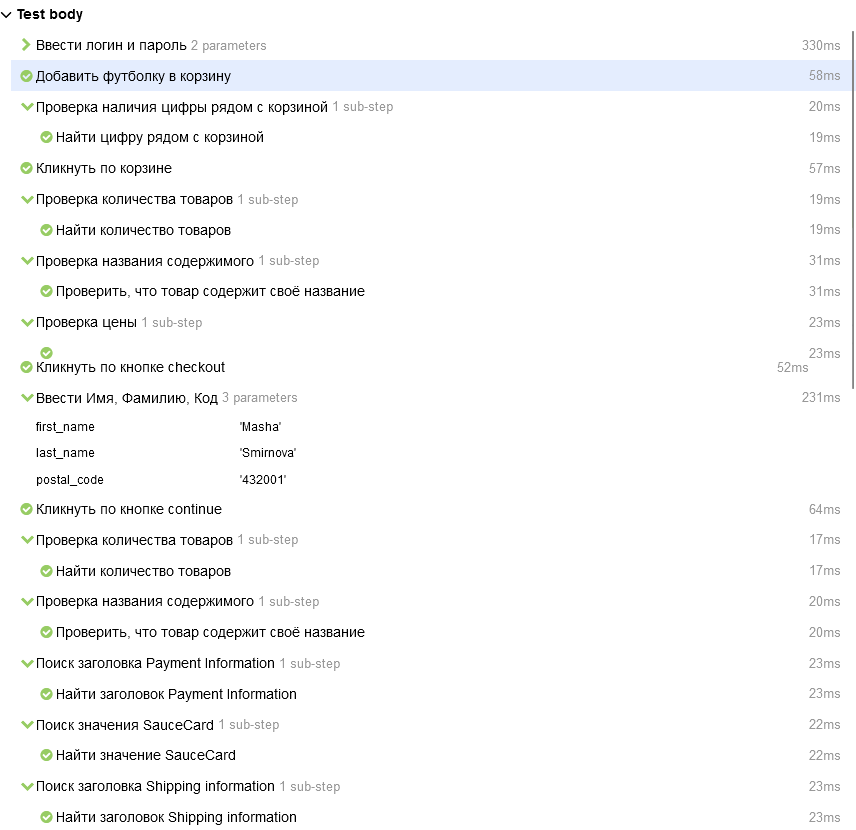
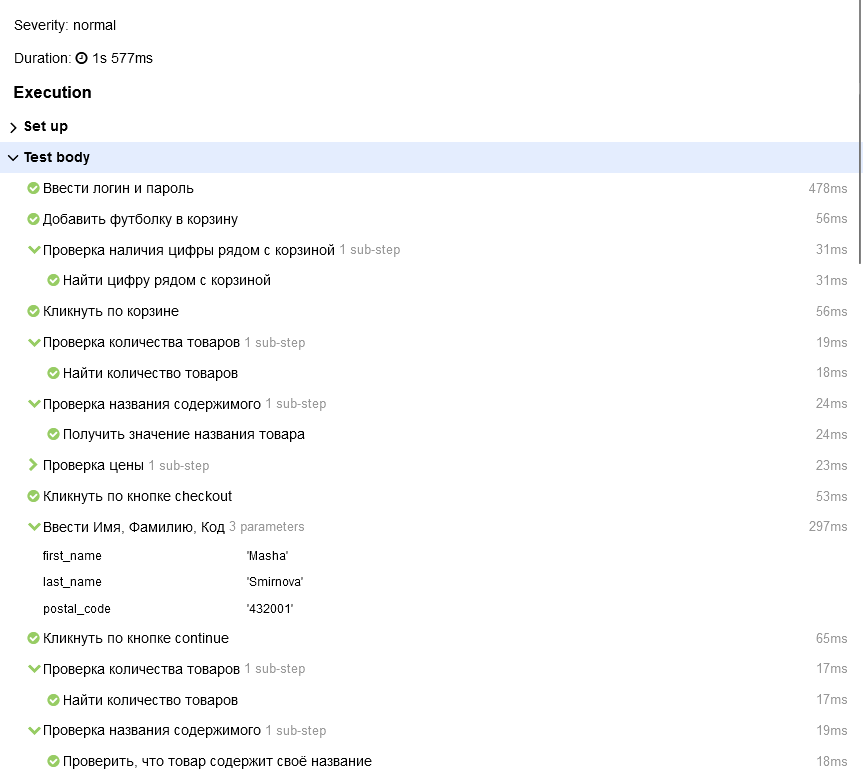
Добавил и изменил

Changed region(s): [[0.0, 0.0, 1.0, 1.0], [0.9416, 0.8, 1.0, 1.0], [0.9416, 0.5538, 1.0, 0.7692]]

diff --git a/pages/OverviewPage.py b/pages/OverviewPage.py
@@ -9,70 +9,70 @@ class OverviewPage(BasePage):
         super().__init__(driver, timeout=60)
 
         self.item_list = (By.XPATH, '//*[@class= "cart_item"]')
-        self.check_contains_product = (By.XPATH, '//div[@class="cart_item"]//div[@class="inventory_item_name"]')
-        self.check_payment_information = (By.XPATH, '//*[@class="summary_info"]/*[contains(text(), "Payment Information")]')
-        self.check_payment_value = (By.XPATH, '//*[@class="summary_info"]/*[contains(text(), "SauceCard #31337")]')
-        self.check_shipping_information = (By.XPATH, '//*[@class="summary_info"]/*[contains(text(), "Shipping Information")]')
-        self.check_shipping_value = (By.XPATH, '//*[@class="summary_info"]/*[contains(text(), "Free Pony Express Delivery!")]')
-        self.check_price_total_information = (By.XPATH, '//*[@class="summary_info"]/*[contains(text(), "Price Total")]')
-        self.check_price_subtotal_information = (By.CSS_SELECTOR, '[data-test="subtotal-label"]')
-        self.check_tax_label = (By.CSS_SELECTOR, '[data-test="tax-label"]')
-        self.check_total_label = (By.CSS_SELECTOR, '[data-test="total-label"]')
+        self.contains_product = (By.XPATH, '//div[@class="cart_item"]//div[@class="inventory_item_name"]')
+        self.payment_information = (By.XPATH, '//*[@class="summary_info"]/*[contains(text(), "Payment Information")]')
+        self.payment_value = (By.XPATH, '//*[@class="summary_info"]/*[contains(text(), "SauceCard #31337")]')
+        self.shipping_information = (By.XPATH, '//*[@class="summary_info"]/*[contains(text(), "Shipping Information")]')
+        self.shipping_value = (By.XPATH, '//*[@class="summary_info"]/*[contains(text(), "Free Pony Express Delivery!")]')
+        self.price_total_information = (By.XPATH, '//*[@class="summary_info"]/*[contains(text(), "Price Total")]')
+        self.price_subtotal_information = (By.CSS_SELECTOR, '[data-test="subtotal-label"]')
+        self.tax_label = (By.CSS_SELECTOR, '[data-test="tax-label"]')
+        self.total_label = (By.CSS_SELECTOR, '[data-test="total-label"]')
         self.finish_btn = (By.ID, 'finish')
 
 
     @allure.step(r"Найти заголовок Payment Information")
-    def find_payment_information(self):
-        return self.find_element(*self.check_payment_information).text
+    def find_payment_information(self) -> str:
+        return self.find_element(*self.payment_information).text
 
     @allure.step(r"Найти значение SauceCard")
-    def find_payment_value(self):
-        return self.find_element(*self.check_payment_value).text
+    def find_payment_value(self) -> str:
+        return self.find_element(*self.payment_value).text
 
     @allure.step(r"Найти заголовок Shipping information")
-    def find_shipping_information(self):
-        return self.find_element(*self.check_shipping_information).text
+    def find_shipping_information(self) -> str:
+        return self.find_element(*self.shipping_information).text
 
     @allure.step(r"Найти значение Free Pony Express Delivery")
-    def find_shipping_value(self):
-        return self.find_element(*self.check_shipping_value).text
+    def find_shipping_value(self) -> str:
+        return self.find_element(*self.shipping_value).text
 
     @allure.step(r"Найти итоговую цену")
-    def find_price_total_information(self):
-        return self.find_element(*self.check_price_total_information).text
+    def find_price_total_information(self) -> str:
+        return self.find_element(*self.price_total_information).text
 
     @allure.step(r"Найти цену предмета")
-    def find_price_subtotal_information(self):
-        return self.find_element(*self.check_price_subtotal_information).text[:11]
+    def find_price_subtotal_information(self) -> str:
+        return self.find_element(*self.price_subtotal_information).text[:11]
 
     @allure.step(r"Найти цену")
-    def find_price_subtotal_value(self):
-        return float(self.find_element(*self.check_price_subtotal_information).text[13:])
+    def find_price_subtotal_value(self) -> float:
+        return float(self.find_element(*self.price_subtotal_information).text[13:])
 
     @allure.step(r"Найти налог")
-    def find_tax_label(self):
-        return self.find_element(*self.check_tax_label).text[:4]
+    def find_tax_label(self) -> str:
+        return self.find_element(*self.tax_label).text[:4]
 
     @allure.step(r"Найти цену налога")
-    def find_price_tax_value(self):
-        return float(self.find_element(*self.check_tax_label).text[6:])
+    def find_price_tax_value(self) -> float:
+        return float(self.find_element(*self.tax_label).text[6:])
 
     @allure.step(r"Найти итог")
-    def find_total_label(self):
-        return self.find_element(*self.check_total_label).text[:6]
+    def find_total_label(self) -> str:
+        return self.find_element(*self.total_label).text[:6]
 
     @allure.step(r"Найти цену итога")
-    def find_price_total_value(self):
-        return float(self.find_element(*self.check_total_label).text[8:])
+    def find_price_total_value(self) -> float:
+        return float(self.find_element(*self.total_label).text[8:])
 
     @allure.step(r"Кликнуть по кнопке finish")
     def finish_btn_click(self):
         self.find_element(*self.finish_btn).click()
 
     @allure.step(r"Найти количество товаров")
-    def number_of_products(self):
+    def number_of_products(self) -> int:
         return len(self.find_elements(*self.item_list))
 
     @allure.step(r"Проверить, что товар содержит своё название")
-    def find_contains_products(self):
-        return self.find_element(*self.check_contains_product).text
+    def find_contains_products(self) -> str:
+        return self.find_element(*self.contains_product).text

diff --git a/test_run.py b/test_run.py
@@ -10,12 +10,12 @@ from pages.OverviewPage import OverviewPage
 
 def test_est_1_login(driver):
     auth_page = LoginPage(driver)
-    auth_page.auth('standard_user', 'secret_sauce')
+    auth_page.auth()
 
     inventory_page = InventoryPage(driver)
     inventory_page.add_tshirt_to_cart_btn_click()
     with allure.step(r"Проверка наличия цифры рядом с корзиной"):
-        assert inventory_page.find_cart_number(), "Цифры рядом с корзиной не найдена"
+        assert inventory_page.find_cart_number() == "1", "Цифры рядом с корзиной не найдена"
     inventory_page.cart_btn_click()
 
     cart_page = CartPage(driver)
@@ -23,10 +23,10 @@ def test_est_1_login(driver):
         assert cart_page.number_of_products() == 1
 
     with allure.step(r"Проверка названия содержимого "):
-        assert cart_page.find_contains_product()
+        assert cart_page.get_title_product() == "Sauce Labs Bolt T-Shirt", "Error, can't find product name"
 
     with allure.step(r"Проверка цены"):
-        assert cart_page.find_price_product()
+        assert cart_page.find_price_product() == 15.99, "Error, price is not correct"
 
     cart_page.checkout_btn_click()
 
@@ -42,37 +42,37 @@ def test_est_1_login(driver):
         assert overview_page.find_contains_products()
 
     with allure.step(r"Поиск заголовка Payment Information"):
-        assert overview_page.find_payment_information()
+        assert overview_page.find_payment_information() == "Payment Information:", "Заголовок не найден"
 
     with allure.step(r"Поиск значения SauceCard"):
-        assert overview_page.find_payment_value()
+        assert overview_page.find_payment_value() == "SauceCard #31337", "Значения SauceCard не найдено"
 
     with allure.step(r"Поиск заголовка Shipping information"):
-        assert overview_page.find_shipping_information()
+        assert overview_page.find_shipping_information() == "Shipping Information:", "Заголовок Shipping information не найден"
 
     with allure.step(r"Поиск значения Free Pony Express Delivery"):
-        assert overview_page.find_shipping_value()
+        assert overview_page.find_shipping_value() == "Free Pony Express Delivery!", "Значения Free Pony Express Delivery не найдено"
 
     with allure.step(r"Поиск итоговой цены(текста Итоговая цена)"):
-        assert overview_page.find_price_total_information()
+        assert overview_page.find_price_total_information() == "Price Total", "Price Total не найден"
 
     with allure.step(r"Поиск итоговой цены(текста)"):
-        assert overview_page.find_price_subtotal_information()
+        assert overview_page.find_price_subtotal_information() == "Item total:", "Item Total не найден"
 
     with allure.step(r"Поиск итоговой цены"):
-        assert overview_page.find_price_subtotal_value()
+        assert overview_page.find_price_subtotal_value() == 15.99, "Invalid total price"
 
     with allure.step(r"Поиск налога(текста)"):
-        assert overview_page.find_tax_label()
+        assert overview_page.find_tax_label() == "Tax:", "Tax не найден"
 
     with allure.step(r"Поиск налога"):
-        assert overview_page.find_price_tax_value()
+        assert overview_page.find_price_tax_value() == 1.28, "Invalid tax price"
 
     with allure.step(r"Поиск итога"):
-        assert overview_page.find_total_label()
+        assert overview_page.find_total_label() == "Total:", "Total не найден"
 
     with allure.step(r"Поиск цены итога"):
-        assert overview_page.find_price_total_value()
+        assert overview_page.find_price_total_value() == 17.27, "Invalid Total price"
 
     overview_page.finish_btn_click()
 
@@ -81,10 +81,10 @@ def test_est_1_login(driver):
         assert finish_page.check_title()
 
     with allure.step(r"Проверка наличия заголовка Thank you for your order!"):
-        assert finish_page.find_complete_header()
+        assert finish_page.get_complete_header() == "Thank you for your order!", "Ожидаемый заголовок: Thank you for your order!"
 
     with allure.step(r"Проверка наличия заголовка Your order has been dispatched, and will arrive just as fast as the pony can get there!"):
-        assert finish_page.find_complete_text()
+        assert finish_page.get_complete_text() == "Your order has been dispatched, and will arrive just as fast as the pony can get there!", "Ожидаемый заголовок: Your order has been dispatched, and will arrive just as fast as the pony can get there!"
 
     with allure.step(r"Проверка наличия кнопки Back Home"):
         assert finish_page.find_back_home_btn()

diff --git a/pages/FinishPage.py b/pages/FinishPage.py
@@ -1,6 +1,8 @@
 import allure
 
 from selenium.webdriver.common.by import By
+from selenium.webdriver.remote.webelement import WebElement
+
 from pages.BasePage import BasePage
 
 
@@ -8,23 +10,23 @@ class FinishPage(BasePage):
     def __init__(self, driver):
         super().__init__(driver, timeout=60)
 
-        self.check_title_field = (By.XPATH, '//*[@class="title"]')
-        self.check_complete_header = (By.XPATH, '//h2[@class="complete-header"]')
-        self.check_complete_text = (By.XPATH, '//*[@class="complete-text"]')
-        self.check_back_home_btn = (By.ID, 'back-to-products')
+        self.title_field = (By.XPATH, '//*[@class="title"]')
+        self.complete_header = (By.XPATH, '//h2[@class="complete-header"]')
+        self.complete_text = (By.XPATH, '//*[@class="complete-text"]')
+        self.back_home_btn = (By.ID, 'back-to-products')
 
     @allure.step(r"Проверить наличие поля Checkout: Complete!")
-    def check_title(self):
-        return self.find_element(*self.check_title_field).text
+    def check_title(self) -> str:
+        return self.find_element(*self.title_field).text
 
-    @allure.step(r"Проверить наличие заголовка Thank you for your order!")
-    def find_complete_header(self):
-        return self.find_element(*self.check_complete_header).text
+    @allure.step(r"Получить заголовок Thank you for your order!")
+    def get_complete_header(self) -> str:
+        return self.find_element(*self.complete_header).text
 
     @allure.step(r"Проверить наличие заголовка Your order has been dispatched, and will arrive just as fast as the pony can get there!")
-    def find_complete_text(self):
-        return self.find_element(*self.check_complete_text).text
+    def get_complete_text(self) -> str:
+        return self.find_element(*self.complete_text).text
 
     @allure.step(r"Проверить наличие кнопки Back Home")
-    def find_back_home_btn(self):
-        return self.find_element(*self.check_back_home_btn)
+    def find_back_home_btn(self) -> WebElement:
+        return self.find_element(*self.back_home_btn)

diff --git a/pages/CartPage.py b/pages/CartPage.py
@@ -8,23 +8,23 @@ class CartPage(BasePage):
     def __init__(self, driver):
         super().__init__(driver, timeout=60)
 
-        self.check_contains_product = (By.XPATH, '//div[@class="cart_item"]//div[@class="inventory_item_name"]')
+        self.contains_product = (By.XPATH, '//div[@class="cart_item"]//div[@class="inventory_item_name"]')
         self.item_list = (By.XPATH, '//div[@class="cart_item"]')
-        self.check_price_product = (By.XPATH, '//div[@class="cart_item"]//div[@class="inventory_item_price"]')
+        self.price_product = (By.XPATH, '//div[@class="cart_item"]//div[@class="inventory_item_price"]')
         self.checkout_btn = (By.XPATH, '//*[@id= "checkout"]')
 
     @allure.step(r"Найти количество товаров")
-    def number_of_products(self):
+    def number_of_products(self) -> int:
         return len(self.find_elements(*self.item_list))
 
-    @allure.step(r"Проверить, что товар содержит своё название")
-    def find_contains_product(self):
-        return self.find_element(*self.check_contains_product).text
+    @allure.step(r"Получить значение названия товара")
+    def get_title_product(self) -> str:
+        return self.find_element(*self.contains_product).text
 
     @allure.step(r"Кликнуть по кнопке checkout")
-    def checkout_btn_click(self):
+    def checkout_btn_click(self) -> None:
         self.find_element(*self.checkout_btn).click()
 
-    @allure.step(r"")
-    def find_price_product(self):
-        return float(self.find_element(*self.check_price_product).text[1:])
+    @allure.step(r"Получить цену товара")
+    def find_price_product(self) -> float:
+        return float(self.find_element(*self.price_product).text[1:])

diff --git a/pages/InventoryPage.py b/pages/InventoryPage.py
@@ -9,7 +9,7 @@ class InventoryPage(BasePage):
         super().__init__(driver, timeout=60)
 
         self.add_tshirt_to_cart_btn = (By.XPATH, '//*[@id="add-to-cart-sauce-labs-bolt-t-shirt"]')
-        self.check_cart_number = (By.XPATH, '//*[@class="shopping_cart_link"]/span[contains(text(), "1")]')
+        self.cart_number = (By.XPATH, '//*[@class="shopping_cart_badge"]')
         self.cart_btn = (By.XPATH, '//*[@class="shopping_cart_link"]')
 
     @allure.step(r"Добавить футболку в корзину")
@@ -17,8 +17,8 @@ class InventoryPage(BasePage):
         self.find_element(*self.add_tshirt_to_cart_btn).click()
 
     @allure.step(r"Найти цифру рядом с корзиной")
-    def find_cart_number(self):
-        return len(self.find_elements(*self.check_cart_number))
+    def find_cart_number(self) -> str:
+        return self.find_element(*self.cart_number).text
 
     @allure.step(r"Кликнуть по корзине")
     def cart_btn_click(self):

diff --git a/pages/CheckoutPage.py b/pages/CheckoutPage.py
@@ -16,9 +16,12 @@ class CheckoutPage(BasePage):
 
     @allure.step(r"Ввести Имя, Фамилию, Код")
     def checkout_auth(self, first_name: str, last_name: str, postal_code: str) -> None:
-        self.find_element(*self.first_name).send_keys(first_name)
-        self.find_element(*self.last_name).send_keys(last_name)
-        self.find_element(*self.postal_code).send_keys(postal_code)
+        # self.find_element(*self.first_name).send_keys(first_name)
+        # self.find_element(*self.last_name).send_keys(last_name)
+        # self.find_element(*self.postal_code).send_keys(postal_code)
+        self.fill_field(self.first_name, 'Masha')
+        self.fill_field(self.last_name, 'Smirnova')
+        self.fill_field(self.postal_code, '432001')
 
 
     @allure.step(r"Кликнуть по кнопке continue")

diff --git a/pages/LoginPage.py b/pages/LoginPage.py
@@ -13,7 +13,10 @@ class LoginPage(BasePage):
         self.login_btn = (By.NAME, 'login-button')  #Локатор по Name для элемента кнопка Login
 
     @allure.step(r"Ввести логин и пароль")
-    def auth(self, login: str, password: str) -> None:
-        self.find_element(*self.login).send_keys(login)
-        self.find_element(*self.password).send_keys(password)
-        self.find_element(*self.login_btn).click()
+    def auth(self) -> None:
+        # self.find_element(*self.login).send_keys(login)
+        # self.find_element(*self.password).send_keys(password)
+        # self.find_element(*self.login_btn).click()
+        self.fill_field(self.login, 'standard_user')
+        self.fill_field(self.password, 'secret_sauce')
+        self.click_element(self.login_btn)

diff --git a/pages/BasePage.py b/pages/BasePage.py
@@ -21,3 +21,16 @@ class BasePage:
 
     def get_current_url(self) -> str:
         return self.driver.current_url
+
+    def click_element(self, locator):
+        element = self.find_element(*locator)
+        element.click()
+
+    def fill_field(self, locator, value):
+        field = self.find_element(*locator)
+        field.clear()  # очищаем поле перед вводом
+        field.send_keys(value)
+
+    def get_text(self, locator):
+        element = self.find_element(*locator)
+        return element.text
